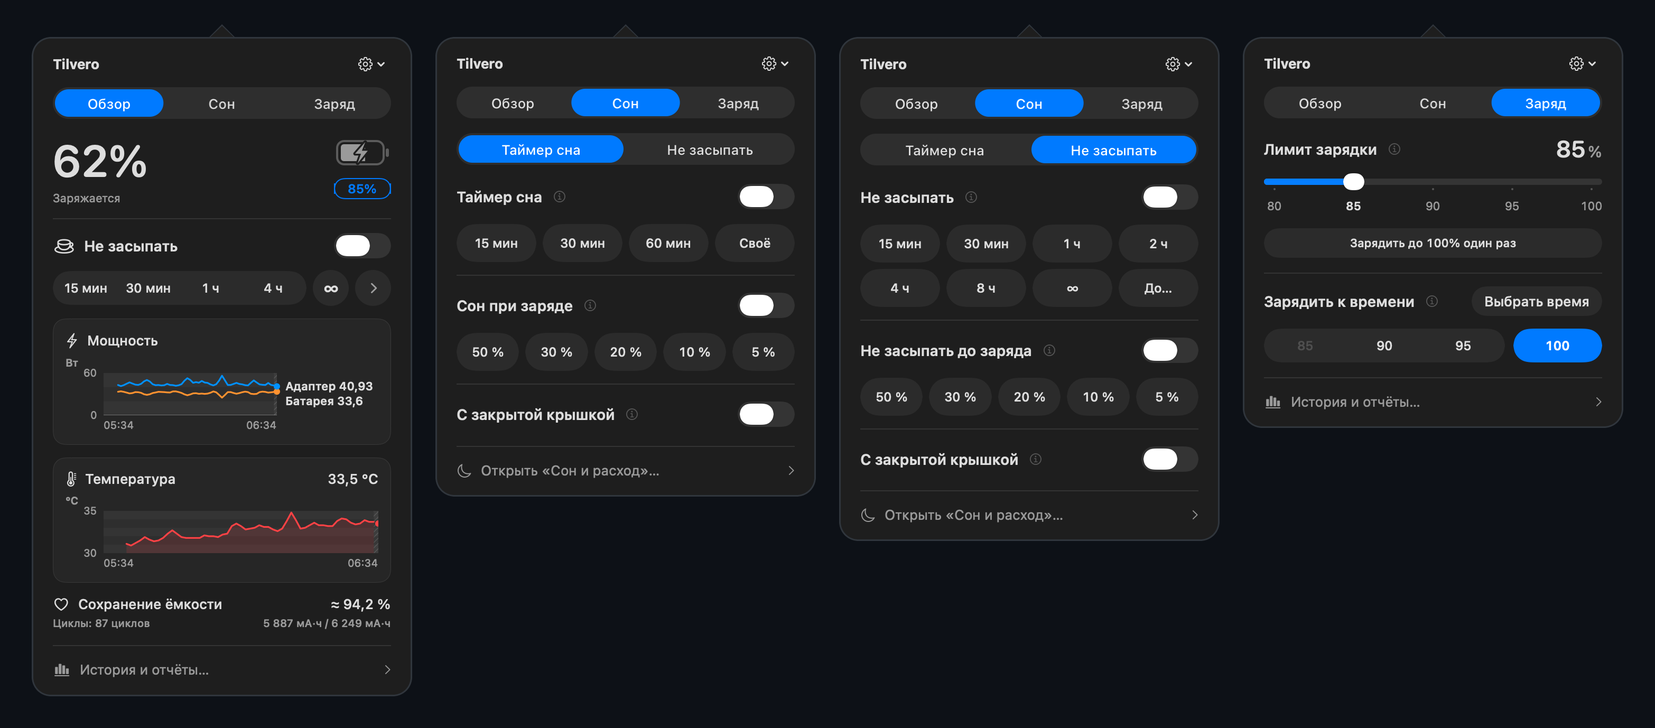
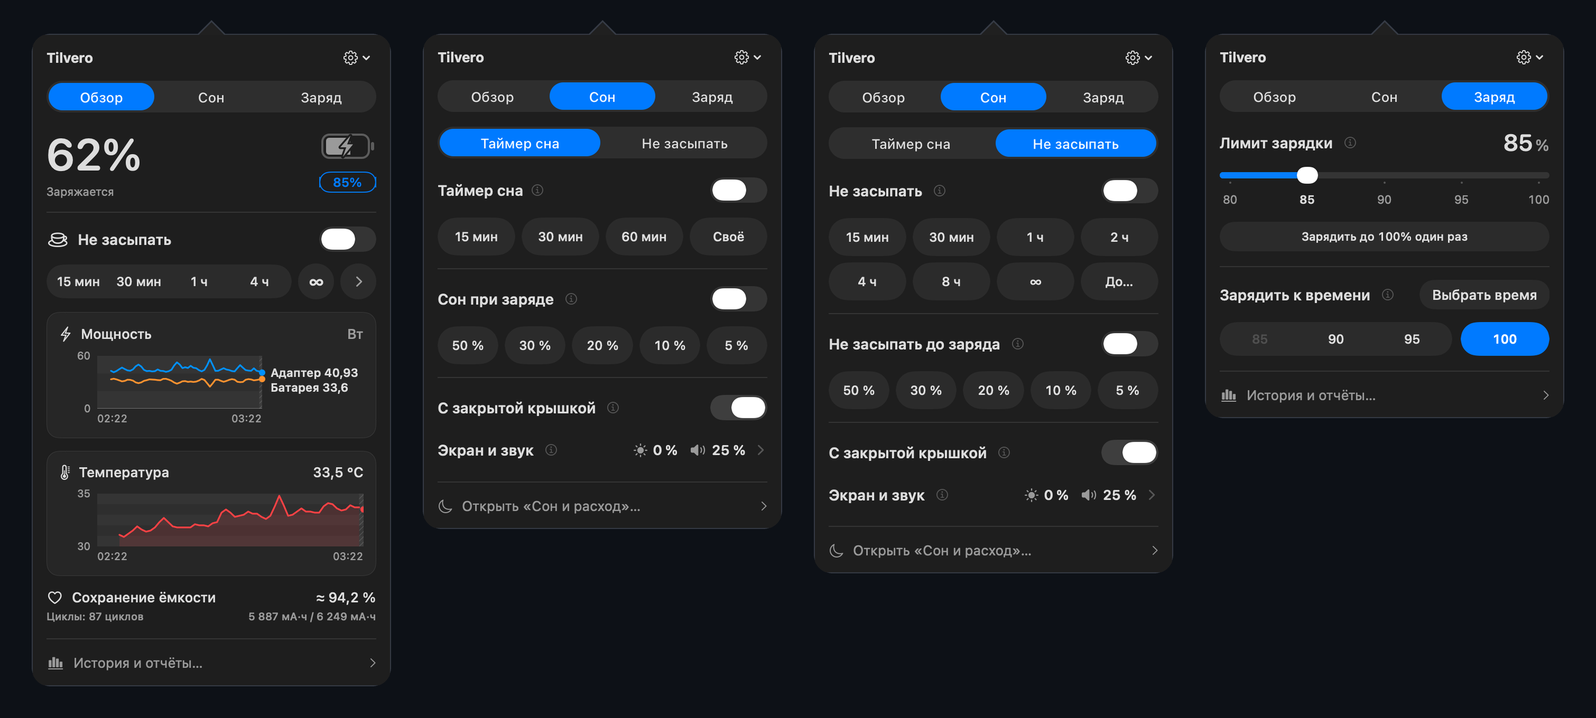
Prepare Tilvero 0.6.0 source release
Release.json -> v0.6.0 (version 0.6.0, build 71, stable), Info.plist 0.6.0 (71),
CHANGELOG, a "What's new in 0.6.0" section in README and README.ru, refreshed quick
menu screenshots (340 pt menu, Screen and sound row) in both languages, install and
release docs pinned to v0.6.0.

diff --git a/README.ru.md b/README.ru.md
@@ -1,7 +1,7 @@
 ![Tilvero — батарея, питание и активность. Swift 6, macOS 26+, Apple silicon. Предварительная версия в исходниках.](.github/assets/cover.png)
 
 <p align="center">
-  <a href="https://github.com/RaNDoM6913/Tilvero/releases/tag/v0.5.0-beta.1"><img src="https://img.shields.io/badge/source-preview-2F6E4B?style=for-the-badge&amp;labelColor=172A22&amp;color=2F6E4B" alt="Предварительная версия в исходниках" height="28"></a>
+  <a href="https://github.com/RaNDoM6913/Tilvero/releases/tag/v0.6.0"><img src="https://img.shields.io/badge/source-preview-2F6E4B?style=for-the-badge&amp;labelColor=172A22&amp;color=2F6E4B" alt="Предварительная версия в исходниках" height="28"></a>
   <a href="docs/GITHUB_TRAFFIC.md"><img src="https://img.shields.io/badge/zip%20%E2%80%A2%20clones%20%E2%80%A2%20unique-10%20%E2%80%A2%201308%20%E2%80%A2%20387-2F6E4B?style=for-the-badge&amp;labelColor=172A22" alt="Скачивания ZIP 10, клонирования Git 1308, уникальные клонирующие 387" height="28"></a>
   <a href="LICENSE"><img src="https://img.shields.io/badge/license-GPL--3.0--only-2F6E4B?style=for-the-badge&amp;labelColor=172A22&amp;color=2F6E4B" alt="Лицензия GPL-3.0-only" height="28"></a>
 </p>
@@ -14,7 +14,7 @@ Tilvero живёт в строке меню. Одно быстрое меню п
 
 <img src=".github/assets/screenshots/ru/quick-menu-dark.png" alt="Быстрое меню Tilvero: Обзор, Таймер сна, Не засыпать и Заряд" width="100%">
 
-<sub>Обзор · Таймер сна · Не засыпать · Заряд. Отрисовано из исходников с подставленными демопоказаниями;
+<sub>Обзор · Таймер сна · Не засыпать с новой строкой «Экран и звук» · Заряд. Отрисовано из исходников с подставленными демопоказаниями;
 они не подтверждают поддержку аппаратного управления и не квалифицируют релизное приложение.</sub>
 
 ## Что умеет быстрое меню
@@ -22,21 +22,45 @@ Tilvero живёт в строке меню. Одно быстрое меню п
 - **Обзор:** заряд и состояние батареи, лимит зарядки macOS одним взглядом, «Не засыпать» в одно нажатие
   и живые графики мощности, входа адаптера и температуры; ниже здоровье батареи. Блоки, порядок и размер графиков настраиваются.
 - **Сон:** таймер сна, который можно продлить на 5 минут, 15 минут или час; «Не засыпать» на время или пока вы не остановите,
-  с необязательным переключателем **«С закрытой крышкой»**; сон или «не засыпать» при падении заряда до выбранного уровня.
+  с необязательным переключателем **«С закрытой крышкой»**, который заодно приглушает экран и ограничивает громкость, пока крышка закрыта;
+  сон или «не засыпать» при падении заряда до выбранного уровня.
 - **Заряд:** лимит зарядки macOS (80–100 %), разовая зарядка до 100 % и **зарядка к времени**: выберите время и уровень,
   и Tilvero поднимет лимит как раз вовремя, разбудив спящий Mac по расписанию (одно необязательное разрешение администратора;
   пробуждение с закрытой крышкой ещё проверяется на реальном железе).
 
-**Новейшая версия: [исходники 0.5.0-beta.1](https://github.com/RaNDoM6913/Tilvero/releases/tag/v0.5.0-beta.1) для разработчиков.**
-[Получить исходники](https://github.com/RaNDoM6913/Tilvero/releases/download/v0.5.0-beta.1/Tilvero-0.5.0-beta.1-source.zip)
-· [Описание выпуска и контрольные суммы](https://github.com/RaNDoM6913/Tilvero/releases/tag/v0.5.0-beta.1)
+**Новейшая версия: [исходники 0.6.0](https://github.com/RaNDoM6913/Tilvero/releases/tag/v0.6.0) для разработчиков.**
+[Получить исходники](https://github.com/RaNDoM6913/Tilvero/releases/download/v0.6.0/Tilvero-0.6.0-source.zip)
+· [Описание выпуска и контрольные суммы](https://github.com/RaNDoM6913/Tilvero/releases/tag/v0.6.0)
 · [Сборка и запуск](#сборка-и-запуск) · [План развития](ROADMAP.md)
-· Стабильная: [0.4.0](https://github.com/RaNDoM6913/Tilvero/releases/tag/v0.4.0)
+· Ранее: [0.5.0-beta.1](https://github.com/RaNDoM6913/Tilvero/releases/tag/v0.5.0-beta.1),
+[0.4.0](https://github.com/RaNDoM6913/Tilvero/releases/tag/v0.4.0)
 
 Подписанная и нотарифицированная версия для Mac готовится. Планируемый DMG
 **Monitoring Preview** будет работать только для чтения; в репозитории также
 есть управление для разработки с отдельными проверками допуска.
 [Доступность и установка](docs/INSTALL.md#русский).
+
+## Что нового в 0.6.0
+
+**Новое**
+- **Экран и звук с закрытой крышкой.** Пока «Не засыпать» или таймер сна держит Mac бодрствующим с закрытой крышкой, Tilvero
+  приглушает встроенный экран (по умолчанию до 0 %) и не даёт громкости превышать 25 %; более тихую настройку он не повышает.
+  Откройте крышку или завершите сеанс, и всё вернётся как было, если вы сами ничего не меняли. Строка стоит под
+  **«С закрытой крышкой»** и раскрывается в два ползунка с шагом 5 %, у каждого свой переключатель.
+- **Живые графики.** Когда меню открыто на «Обзоре», графики мощности и температуры обновляются примерно раз в секунду.
+  Живые точки живут только в памяти и в историю не пишутся.
+- **Просторнее меню.** Быстрое меню стало шире (340 pt), а поля графиков выше.
+
+**Улучшено**
+- Подсветка клавиатуры: крупнее цифра процентов, ползунок и переключатель не отскакивают назад, пока изменение применяется.
+- Переключатель **«С закрытой крышкой»** больше не отскакивает и не сереет, пока проверяется разрешение администратора.
+
+**Исправлено**
+- **Память при запуске:** чтение истории за месяцы оставляло в куче до ~500 МБ временных данных (пик около 730 МБ). Теперь пик около 85 МБ на той же истории.
+- **Тихий запуск:** Tilvero больше не открывает настройки и не выводит окно поверх ваших приложений при старте. Он стартует в строке меню; окно открывается, только когда вы сами попросите.
+- Ползунки экрана и громкости рисовали одинаковую заливку для всех значений ниже примерно 16 %; теперь заливка растёт на всём диапазоне.
+
+Вся история: [CHANGELOG](CHANGELOG.md).
 
 ## Не только меню: Ваш Mac в подробностях
 
@@ -76,14 +100,14 @@ Tilvero живёт в строке меню. Одно быстрое меню п
 macOS SDK и Swift 6. Отдельные Command Line Tools не являются проверенным путём сборки.
 
 ```sh
-git clone --branch v0.5.0-beta.1 https://github.com/RaNDoM6913/Tilvero.git
+git clone --branch v0.6.0 https://github.com/RaNDoM6913/Tilvero.git
 cd Tilvero
 bash scripts/test.sh
 bash scripts/build-local-app.sh
 bash scripts/run-local.sh
 ```
 
-Для стабильной версии используйте `--branch v0.4.0`. Приложение открывается в строке меню. Нажмите на значок батареи для быстрого меню;
+Приложение открывается в строке меню. Нажмите на значок батареи для быстрого меню;
 **«История и отчёты…»** открывает подробное окно, шестерёнка — настройки.
 В Tilvero сочетание **⌘⌥B** переключает панель, **⌘,** открывает настройки.
 

diff --git a/README.md b/README.md
@@ -1,7 +1,7 @@
 ![Tilvero — Battery, power and activity. Swift 6, macOS 26+, Apple silicon. Source preview.](.github/assets/cover.png)
 
 <p align="center">
-  <a href="https://github.com/RaNDoM6913/Tilvero/releases/tag/v0.5.0-beta.1"><img src="https://img.shields.io/badge/source-preview-2F6E4B?style=for-the-badge&amp;labelColor=172A22&amp;color=2F6E4B" alt="Source preview" height="28"></a>
+  <a href="https://github.com/RaNDoM6913/Tilvero/releases/tag/v0.6.0"><img src="https://img.shields.io/badge/source-preview-2F6E4B?style=for-the-badge&amp;labelColor=172A22&amp;color=2F6E4B" alt="Source preview" height="28"></a>
   <a href="docs/GITHUB_TRAFFIC.md"><img src="https://img.shields.io/badge/zip%20%E2%80%A2%20clones%20%E2%80%A2%20unique-10%20%E2%80%A2%201308%20%E2%80%A2%20387-2F6E4B?style=for-the-badge&amp;labelColor=172A22" alt="Source ZIP downloads 10, Git clones 1308, unique cloners 387" height="28"></a>
   <a href="LICENSE"><img src="https://img.shields.io/badge/license-GPL--3.0--only-2F6E4B?style=for-the-badge&amp;labelColor=172A22&amp;color=2F6E4B" alt="License: GPL-3.0-only" height="28"></a>
 </p>
@@ -14,7 +14,7 @@ with a clear native window when you want the details. No account, no cloud servi
 
 <img src=".github/assets/screenshots/quick-menu-dark.png" alt="Tilvero quick menu: Overview, Sleep timer, Keep Awake and Charge" width="100%">
 
-<sub>Overview · Sleep timer · Keep Awake · Charge. Rendered from source with injected demo readings; they do not
+<sub>Overview · Sleep timer · Keep Awake with the new Screen and sound row · Charge. Rendered from source with injected demo readings; they do not
 establish hardware support or qualify a release binary.</sub>
 
 ## What the quick menu does
@@ -22,20 +22,44 @@ establish hardware support or qualify a release binary.</sub>
 - **Overview:** the battery level and state, the macOS charge limit at a glance, Keep Awake in one tap, and live
   charts for power, adapter input and temperature with battery health below. Blocks, order and chart size are yours to arrange.
 - **Sleep:** a sleep timer you can extend by 5 minutes, 15 minutes or an hour; Keep Awake for a set time or until you stop it,
-  with an optional **With lid closed** switch; and sleep or keep awake when the charge falls to a level you choose.
+  with an optional **With lid closed** switch that also turns the screen down and caps the volume while the lid is shut; and
+  sleep or keep awake when the charge falls to a level you choose.
 - **Charge:** the macOS charge limit (80–100 %), a one-time charge to 100 %, and **charge by time**: pick a time and a level
   and Tilvero lifts the limit just in time, waking a sleeping Mac on schedule (one optional administrator permission;
   waking with the lid closed is still being verified on real hardware).
 
-**Latest: [0.5.0-beta.1 Source Preview](https://github.com/RaNDoM6913/Tilvero/releases/tag/v0.5.0-beta.1) for developers.**
-[Get the source](https://github.com/RaNDoM6913/Tilvero/releases/download/v0.5.0-beta.1/Tilvero-0.5.0-beta.1-source.zip)
-· [Release notes and checksums](https://github.com/RaNDoM6913/Tilvero/releases/tag/v0.5.0-beta.1)
+**Latest: [0.6.0 Source Preview](https://github.com/RaNDoM6913/Tilvero/releases/tag/v0.6.0) for developers.**
+[Get the source](https://github.com/RaNDoM6913/Tilvero/releases/download/v0.6.0/Tilvero-0.6.0-source.zip)
+· [Release notes and checksums](https://github.com/RaNDoM6913/Tilvero/releases/tag/v0.6.0)
 · [Build and run](#build-and-run) · [Roadmap](ROADMAP.md)
-· Stable: [0.4.0](https://github.com/RaNDoM6913/Tilvero/releases/tag/v0.4.0)
+· Earlier: [0.5.0-beta.1](https://github.com/RaNDoM6913/Tilvero/releases/tag/v0.5.0-beta.1),
+[0.4.0](https://github.com/RaNDoM6913/Tilvero/releases/tag/v0.4.0)
 
 A signed, notarized Mac download is still in preparation. The planned
 **Monitoring Preview** DMG will be read-only; this repository also contains
 separately gated development controls. [Availability and installation](docs/INSTALL.md).
+
+## What's new in 0.6.0
+
+**New**
+- **Screen and sound with the lid closed.** While Keep Awake or the sleep timer holds the Mac awake with the lid shut,
+  Tilvero turns the built-in screen down (0 % by default) and keeps the volume no louder than 25 %; a quieter setting is
+  never raised. Open the lid or end the session and both return to what they were, unless you changed them meanwhile.
+  The row sits under **With lid closed** and expands into two sliders in 5 % steps, each with its own switch.
+- **Live charts.** With the menu open on Overview, power and temperature charts update about once a second. Live points stay
+  in memory and are never written to history.
+- **A roomier menu.** The quick menu is 340 pt wide with taller chart plots.
+
+**Improved**
+- The keyboard backlight row shows a larger percent figure, and its slider and switch no longer jump back while a change is applied.
+- The **With lid closed** switch no longer snaps back or greys out while the administrator permission is checked.
+
+**Fixed**
+- **Memory at launch:** reading months of history left up to ~500 MB of temporary data in the heap (peak about 730 MB). The peak is now about 85 MB on the same history.
+- **A quiet start:** Tilvero no longer opens Settings or raises a window over your apps at launch. It starts in the menu bar; the window opens only when you ask.
+- The screen and volume sliders showed the same fill for every value below about 16 %; the fill now grows over the whole range.
+
+Full history: [CHANGELOG](CHANGELOG.md).
 
 ## More than the menu: a closer look at your Mac
 
@@ -75,14 +99,14 @@ You need **Apple silicon, macOS 26.0+ and a full Xcode installation** with a
 compatible macOS SDK and Swift 6. Command Line Tools alone are not the validated route.
 
 ```sh
-git clone --branch v0.5.0-beta.1 https://github.com/RaNDoM6913/Tilvero.git
+git clone --branch v0.6.0 https://github.com/RaNDoM6913/Tilvero.git
 cd Tilvero
 bash scripts/test.sh
 bash scripts/build-local-app.sh
 bash scripts/run-local.sh
 ```
 
-Use `--branch v0.4.0` for the stable source. The app opens in the menu bar. Click the battery item for the quick menu;
+The app opens in the menu bar. Click the battery item for the quick menu;
 **History & reports…** opens the detail window, and the gear opens Settings.
 Inside Tilvero, **⌘⌥B** toggles the panel and **⌘,** opens Settings.
 

diff --git a/CHANGELOG.md b/CHANGELOG.md
@@ -1,5 +1,36 @@
 # Changelog
 
+## 0.6.0 — Closed Lid Comfort and Live Charts Source Preview — 2026-11-13
+
+The first stable release of the 0.6 line. It contains everything of 0.5.0-beta.1 (charge by time, the one-time charge to
+100 %, the new sleep timer editor) plus:
+
+**New**
+- Screen and sound with the lid closed: while Keep Awake or the sleep timer holds the Mac awake with the lid closed, Tilvero
+  turns the built-in screen down (to 0 % by default) and keeps the volume no louder than 25 %. A quieter setting is never raised.
+  Open the lid, or end the session, and both return to what they were, unless you changed them meanwhile. The new row sits
+  under the "With lid closed" switch and expands into two sliders in 5 % steps, each with its own switch; Keep Awake and the
+  timer have separate settings.
+- Live charts: while the quick menu is open on Overview, power and temperature charts update about once a second. The live
+  points live in memory only and are never written to history.
+- A roomier quick menu: 340 pt wide with 14 pt padding, and taller chart plots in the same cards.
+
+**Improved**
+- Keyboard backlight row: a larger percent figure, and the slider and switch no longer jump back while a change is being applied.
+- The "With lid closed" switch no longer snaps back or greys out while the administrator permission is checked.
+- Running sleep timer header drops its info button instead of crowding the row.
+
+**Fixed**
+- Launch memory: reading months of history at launch left up to ~500 MB of temporary data in the heap (peak about 730 MB, and some
+  launches stayed at 655 MB). The peak is now about 85 MB on the same history.
+- Launch no longer opens Settings or raises a window over your other apps. Tilvero starts quietly in the menu bar; the window opens
+  only when you ask for it (the first-run setup is still a page under Settings).
+- The screen and volume sliders showed the same blue blob for every value below about 16 %; the fill now grows over the whole range.
+
+This release contains source for Apple silicon with macOS 26.0+ and full Xcode; it
+includes no app or DMG. Waking a sleeping Mac on schedule, with the lid closed
+as well, still needs your own device check. Automatic installation remains gated.
+
 ## 0.5.0-beta.1 — Charge by Time Source Preview — 2026-11-12
 
 - Charge by time: pick a time and a level (85, 90, 95 or 100 %) on the Charge page. The Mac keeps your charge limit and Tilvero lifts it just in time, so the battery reaches the level 10 minutes before the time you set. The start comes from the adapter's power, what the Mac itself draws, a taper above 80 % and a safety margin; the page shows when charging starts and says so when the target cannot be reached. While the Mac sleeps it wakes on a schedule, lifts the limit and goes back to sleep (one optional administrator permission, `pmset schedule wake`; without it the limit is lifted when the Mac is about to sleep). Your previous limit returns when you unplug the adapter or an hour after the time once the battery is full; a limit you change in macOS always wins.

diff --git a/docs/INSTALL.md b/docs/INSTALL.md
@@ -7,7 +7,7 @@
 ### Available now: source preview
 
 Tilvero is available as source for **Apple silicon, macOS 26.0+**. Use the
-[v0.4.0 source release](https://github.com/RaNDoM6913/Tilvero/releases/tag/v0.4.0)
+[v0.6.0 source release](https://github.com/RaNDoM6913/Tilvero/releases/tag/v0.6.0)
 and follow [Build and run](../README.md#build-and-run).
 A source archive requires a full Xcode installation; it is not an installable app.
 
@@ -23,7 +23,7 @@ Awake. Monitoring, history and diagnostics need no administrator approval.
 
 ### Verify a source release
 
-The release supplies `Tilvero-0.4.0-source.zip`,
+The release supplies `Tilvero-0.6.0-source.zip`,
 `source-release.json` and `SHA256SUMS`. Download all three from the same explicit
 release, then run `shasum -a 256 -c SHA256SUMS` in their folder. Every entry must
 match. The source manifest identifies the tag, exact commit and source ZIP hash;
@@ -33,7 +33,7 @@ use the build commands below, starting with `bash scripts/test.sh`.
 ### Source-build essentials
 
 ```sh
-git clone --branch v0.4.0 https://github.com/RaNDoM6913/Tilvero.git
+git clone --branch v0.6.0 https://github.com/RaNDoM6913/Tilvero.git
 cd Tilvero
 bash scripts/test.sh
 bash scripts/build-local-app.sh
@@ -89,7 +89,7 @@ before sharing them. No automatic updater is enabled.
 ### Сейчас доступны исходники
 
 Tilvero доступен в исходниках для **Apple silicon, macOS 26.0+**. Скачайте
-[исходники v0.4.0](https://github.com/RaNDoM6913/Tilvero/releases/tag/v0.4.0)
+[исходники v0.6.0](https://github.com/RaNDoM6913/Tilvero/releases/tag/v0.6.0)
 и следуйте инструкции [«Сборка и запуск»](../README.ru.md#сборка-и-запуск).
 Архив исходников требует полной установки Xcode; это не готовое приложение.
 
@@ -106,7 +106,7 @@ DMG **Monitoring Preview** не будет содержать помощника
 
 ### Проверка выпуска исходников
 
-Выпуск содержит `Tilvero-0.4.0-source.zip`,
+Выпуск содержит `Tilvero-0.6.0-source.zip`,
 `source-release.json` и `SHA256SUMS`. Скачайте все три файла из одного конкретного
 выпуска и выполните в их папке `shasum -a 256 -c SHA256SUMS`; все записи должны
 совпасть. Манифест исходников указывает тег, точный коммит и сумму ZIP, но не
@@ -116,7 +116,7 @@ DMG **Monitoring Preview** не будет содержать помощника
 ### Сборка из исходников
 
 ```sh
-git clone --branch v0.4.0 https://github.com/RaNDoM6913/Tilvero.git
+git clone --branch v0.6.0 https://github.com/RaNDoM6913/Tilvero.git
 cd Tilvero
 bash scripts/test.sh
 bash scripts/build-local-app.sh

diff --git a/docs/RELEASING.md b/docs/RELEASING.md
@@ -4,11 +4,11 @@ Tilvero has two distribution routes. The **Source Preview** distributes code for
 
 ## Source Preview
 
-The current source release is `v0.4.0`. It targets developers building on Apple silicon with macOS 26 or later and a compatible full Xcode installation. It includes no `.app`, helper executable or DMG. The source tree contains gated development controls as well as monitoring.
+The current source release is `v0.6.0`. It targets developers building on Apple silicon with macOS 26 or later and a compatible full Xcode installation. It includes no `.app`, helper executable or DMG. The source tree contains gated development controls as well as monitoring.
 
 The source profile's exact upload allowlist is:
 
-- `Tilvero-0.4.0-source.zip`
+- `Tilvero-0.6.0-source.zip`
 - `source-release.json`
 - `SHA256SUMS`
 
@@ -17,7 +17,7 @@ Prepare only after every public source, document and media asset is committed an
 ```sh
 python3 scripts/source_release.py prepare --commit <full-current-commit>
 python3 scripts/source_release.py verify \
-  --manifest build/source-releases/v0.4.0/source-release.json
+  --manifest build/source-releases/v0.6.0/source-release.json
 ```
 
 The tool requires an exact 40-character current commit, matching committed configuration, an unused local tag and the admitted public ancestry. The coordinator must also check the remote tag/release state. It exports the full committed tree, rejects private/runtime/signing files and verifies ZIP entries, raw blobs, permissions, CRC, commit identity and final checksums. Untracked and ignored local inputs never become release source. Even accidentally tracked `local-lab` paths are rejected; source exports must not contain Studio state, captures, owner data or signing material. Existing output is never replaced; failed work remains `.incomplete` for inspection.
